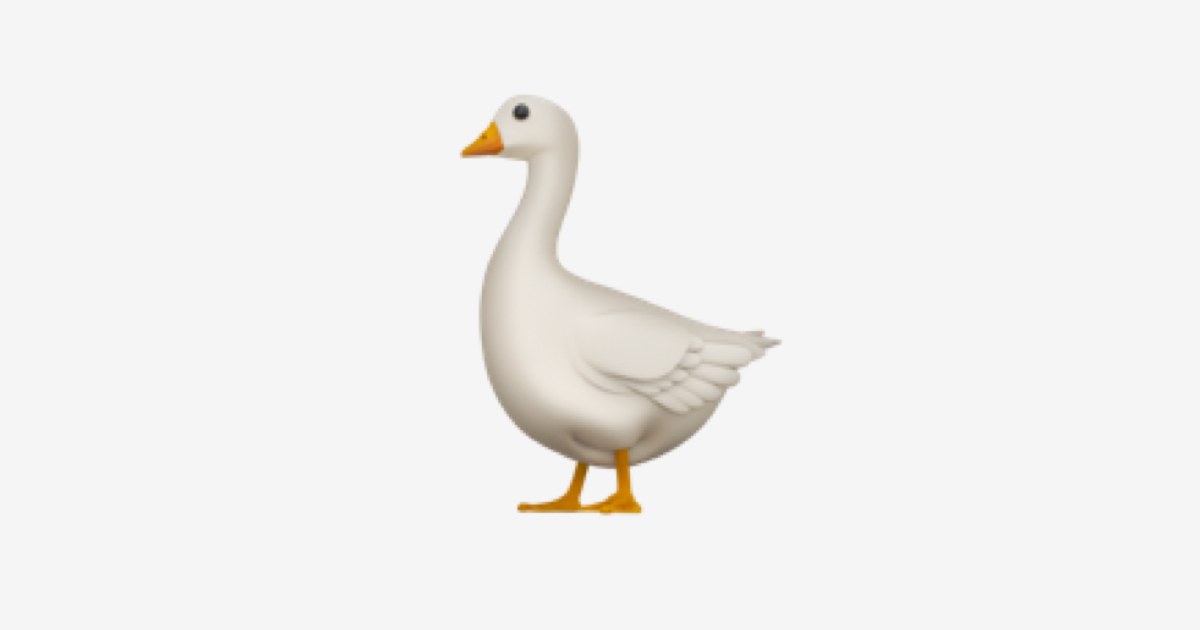
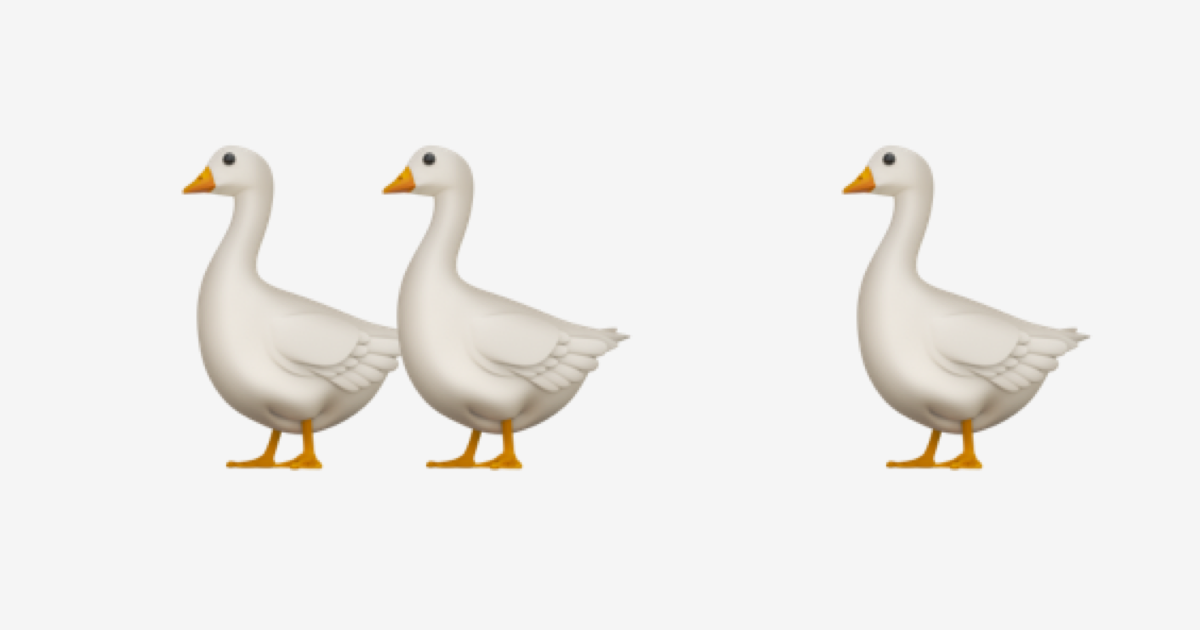
style: arrange three geese in sharing preview

Changed region(s): [[0.1542, 0.1508, 0.6475, 0.8143], [0.7092, 0.2111, 0.925, 0.754]]

diff --git a/index.html b/index.html
@@ -15,10 +15,10 @@
     <meta property="og:image" content="https://tinygoose.club/goose-social-preview.png" />
     <meta property="og:image:width" content="1200" />
     <meta property="og:image:height" content="630" />
-    <meta property="og:image:alt" content="A large goose emoji on a light gray background." />
+    <meta property="og:image:alt" content="Three goose emojis on a light gray background, two slightly overlapping and the third standing apart." />
     <meta name="twitter:card" content="summary_large_image" />
     <meta name="twitter:image" content="https://tinygoose.club/goose-social-preview.png" />
-    <meta name="twitter:image:alt" content="A large goose emoji on a light gray background." />
+    <meta name="twitter:image:alt" content="Three goose emojis on a light gray background, two slightly overlapping and the third standing apart." />
     <meta name="twitter:title" content="Tiny Goose Club" />
     <meta name="twitter:description" content="A creative meetup for dabblers in Hampden, Baltimore. Beginners welcome; talking optional." />
   </head>
